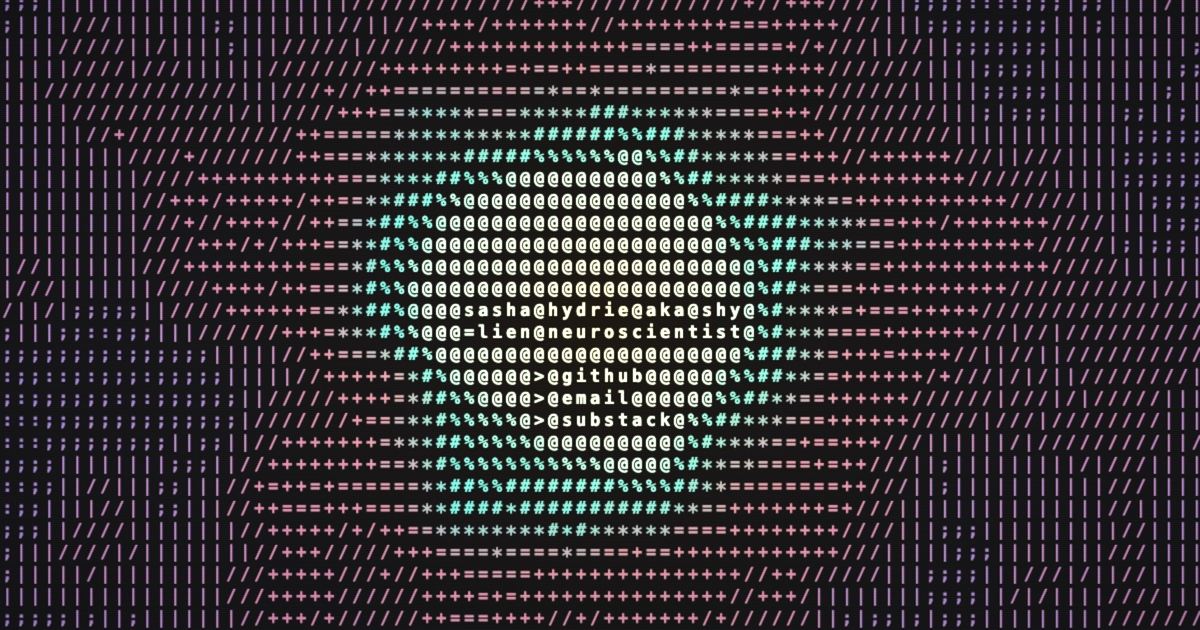
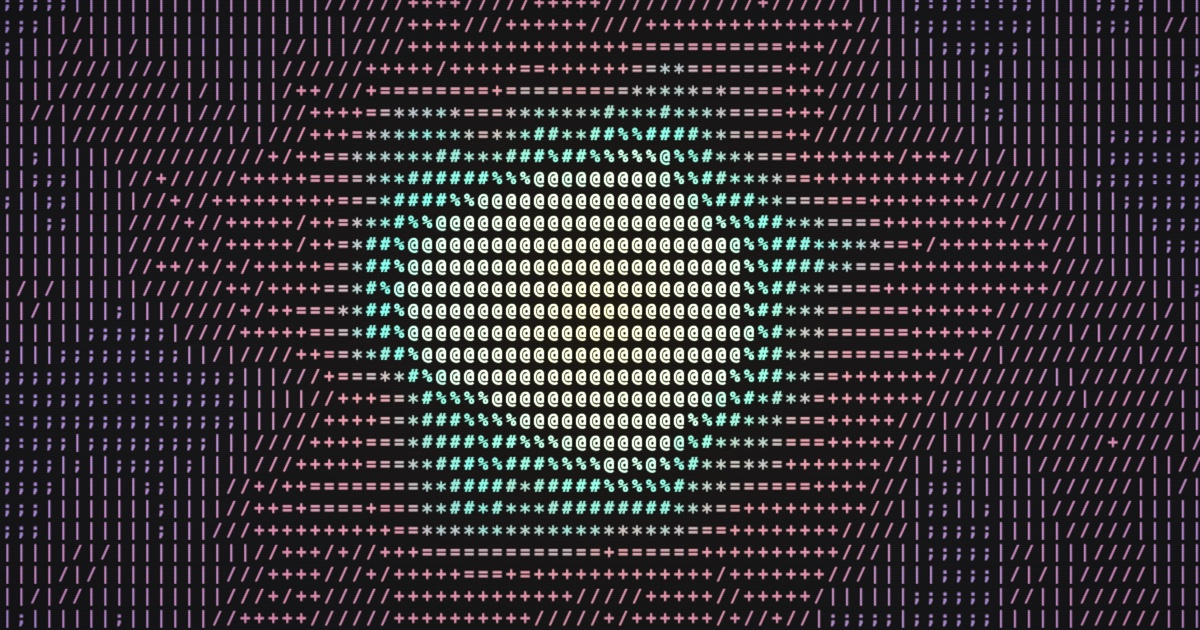
og image: just the wisp, no labels
Adds a ?notext=1 URL flag to short-circuit buildText() label
placement so the OG capture is pure ascii field. Re-shot the JPG.

diff --git a/index.html b/index.html
@@ -458,6 +458,7 @@
   textTexture.minFilter = THREE.NearestFilter;
   textTexture.magFilter = THREE.NearestFilter;
 
+  const noText = new URLSearchParams(location.search).get('notext') === '1';
   function buildText(scale = 1.0) {
     const dpr = Math.min(devicePixelRatio, 2);
     const cellWp = cellW * scale * dpr;
@@ -471,6 +472,12 @@
     // initialize all to 0 (no override)
     for (let i = 0; i < img.data.length; i += 4) {
       img.data[i+3] = 255;
+    }
+    // ?notext=1 short-circuits all label placement (used for the OG image capture)
+    if (noText) {
+      ctx.putImageData(img, 0, 0);
+      textTexture.needsUpdate = true;
+      return { cellsX, cellsY };
     }
 
     function place(str, cx, cy) {
